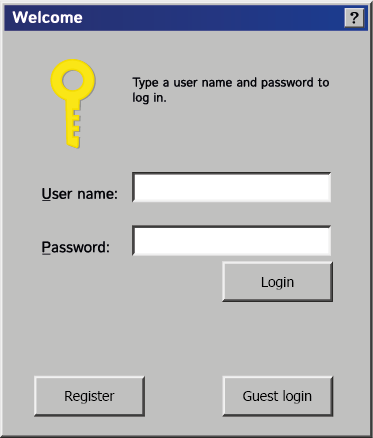
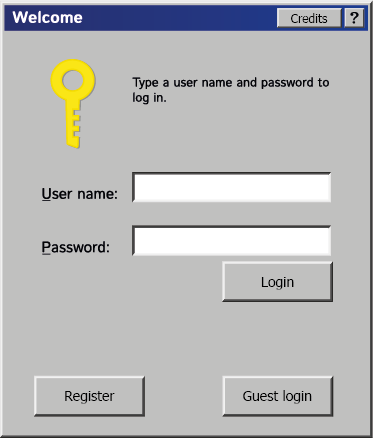
creditsss

Changed region(s): [[0.7373, 0.0, 0.9142, 0.089]]

diff --git a/src/game/scenes/credits.js b/src/game/scenes/credits.js
@@ -1,0 +1,155 @@
+import { Scene } from "phaser";
+import { getResponsiveSize } from "./f_update";
+
+export default class credits extends Scene {
+
+    text;
+    start = null;
+
+    bg;
+    
+    
+    constructor() {
+        super('credits');
+    }
+
+    preload(){
+        this.load.image("loginBackground","assets/loginBackground.png");
+
+        this.load.audio("BackgroundSound","assets/PCSound.mp3");
+        this.load.audio("MouseClickSound","assets/MouseClickSound.mp3");
+    }
+
+    create() { 
+        //Setzten des Deault Courser
+        this.input.setDefaultCursor("url(assets/cursors/arrow_m.cur), default");
+
+        
+
+        //Mouse Click Sound
+        this.input.on("pointerdown",()=>{
+            this.sound.play("MouseClickSound");
+        });
+
+        //BackgroundSound
+        this.sound.add("BackgroundSound", {
+            loop: true,
+            volume: 0.3,
+        }).play();
+
+        const W = this.scale.width;
+        const H = this.scale.height;
+
+        //Reagiert wenn die Größe sich verändert
+        this.scale.on('resize', this.onResize, this);
+
+        this.events.on('shutdown', () => {
+            this.scale.off('resize', this.onResize, this);
+        });
+        
+        this.bg = this.add.image(W*0.5, H*0.5, 'loginBackground').setDisplaySize(window.innerWidth,window.innerHeight);
+
+        // Container
+        const legalContainer = this.add.container(40, 40);
+
+        // Text Content
+        const legalTextContent = `
+BITCOIN CLICKER
+
+========================
+IMPRINT
+========================
+
+Developers:
+- Timo Höglinger
+- Christian Lucaci
+
+Purpose:
+This website was created as a small non-commercial
+educational project for learning and practicing
+web development and programming.
+
+Disclaimer:
+This website is not intended for commercial use.
+It is an independent project and is not affiliated
+with or endorsed by any official Bitcoin organizations
+or companies.
+
+
+========================
+PRIVACY POLICY
+========================
+
+General Information:
+This website is operated by Timo Höglinger
+and Christian Lucaci.
+
+The project is intended for educational and
+demonstration purposes only.
+
+Data Collection:
+This website does not intentionally collect
+personal data from visitors.
+
+No registration, payment system, or user
+account functionality is provided.
+
+Cookies and Local Storage:
+The website may use cookies or browser local
+storage to save game progress and improve
+functionality.
+
+These files are only used for technical
+purposes related to the game.
+
+Third-Party Services:
+No advertising services or external tracking
+tools are intentionally used on this website.
+
+Data Security:
+No sensitive personal information is intentionally
+stored or processed.
+
+Changes to This Policy:
+This Privacy Policy may be updated or changed
+at any time if necessary for the project.
+`;
+
+        // Text
+        const legalText = this.add.text(40, 40, legalTextContent, {
+            fontFamily: "Arial",
+            fontSize: "22px",
+            color: "#ffffff",
+            wordWrap: { width: 1050 }
+        });
+
+        // Add to container
+        legalContainer.add([legalText]);
+
+        // Scroll
+        this.input.on("wheel", (pointer, gameObjects, deltaX, deltaY) => {
+            legalContainer.y -= deltaY * 0.5;
+
+            legalContainer.y = Phaser.Math.Clamp(
+                legalContainer.y,
+                -1000,
+                40
+            );
+        });
+
+    }
+
+    update(){
+        //Skaliert die Objekte neu anhand der Bildschirmposition
+
+     }
+ 
+     //Setzt die Position neu anhand der Bildschirmposition
+     onResize(gameSize) {
+         const W = gameSize.width;
+         const H = gameSize.height;
+ 
+         this.bg ?.setPosition(W*0.5, H*0.5).setDisplaySize(W, H);
+
+     }
+}

diff --git a/src/game/scenes/MainMenu.js b/src/game/scenes/MainMenu.js
@@ -26,6 +26,9 @@ export default class MainMenu extends Scene {
 
     create() {
 
+
+
+
         //Setzten des Deault Courser
         this.input.setDefaultCursor("url(assets/cursors/arrow_m.cur), default");
 
@@ -93,6 +96,10 @@ export default class MainMenu extends Scene {
                 this.activeZone = "Guestlogin";
                 return true;
                 };
+                if (Phaser.Geom.Rectangle.Contains(new Phaser.Geom.Rectangle(85, -214, 70, 24), x, y)) {
+                this.activeZone = "credits";
+                return true;
+                };
         },
         cursor: "url(assets/cursors/harrow.cur), pointer",
     });
@@ -149,6 +156,10 @@ export default class MainMenu extends Scene {
                     this.sound.play("LoginSound");
                     this.scene.start('MainGame')
                     break; 
+                case "credits":
+                    this.sound.stopByKey("BackgroundSound");
+                    this.scene.start('credits');
+                    break;
                 default:
                     break;
 

diff --git a/src/game/main.js b/src/game/main.js
@@ -2,6 +2,7 @@ import { AUTO, Game } from 'phaser';
 import MainGame from './scenes/MainGame';
 import MainMenu from './scenes/MainMenu';
 import Register from './scenes/register';
+import credits from './scenes/credits';
 
 
 const config = {
@@ -22,7 +23,7 @@ const config = {
     MainMenu, 
     MainGame,
     Register,
-
+    credits,
   ]
 }; 
 